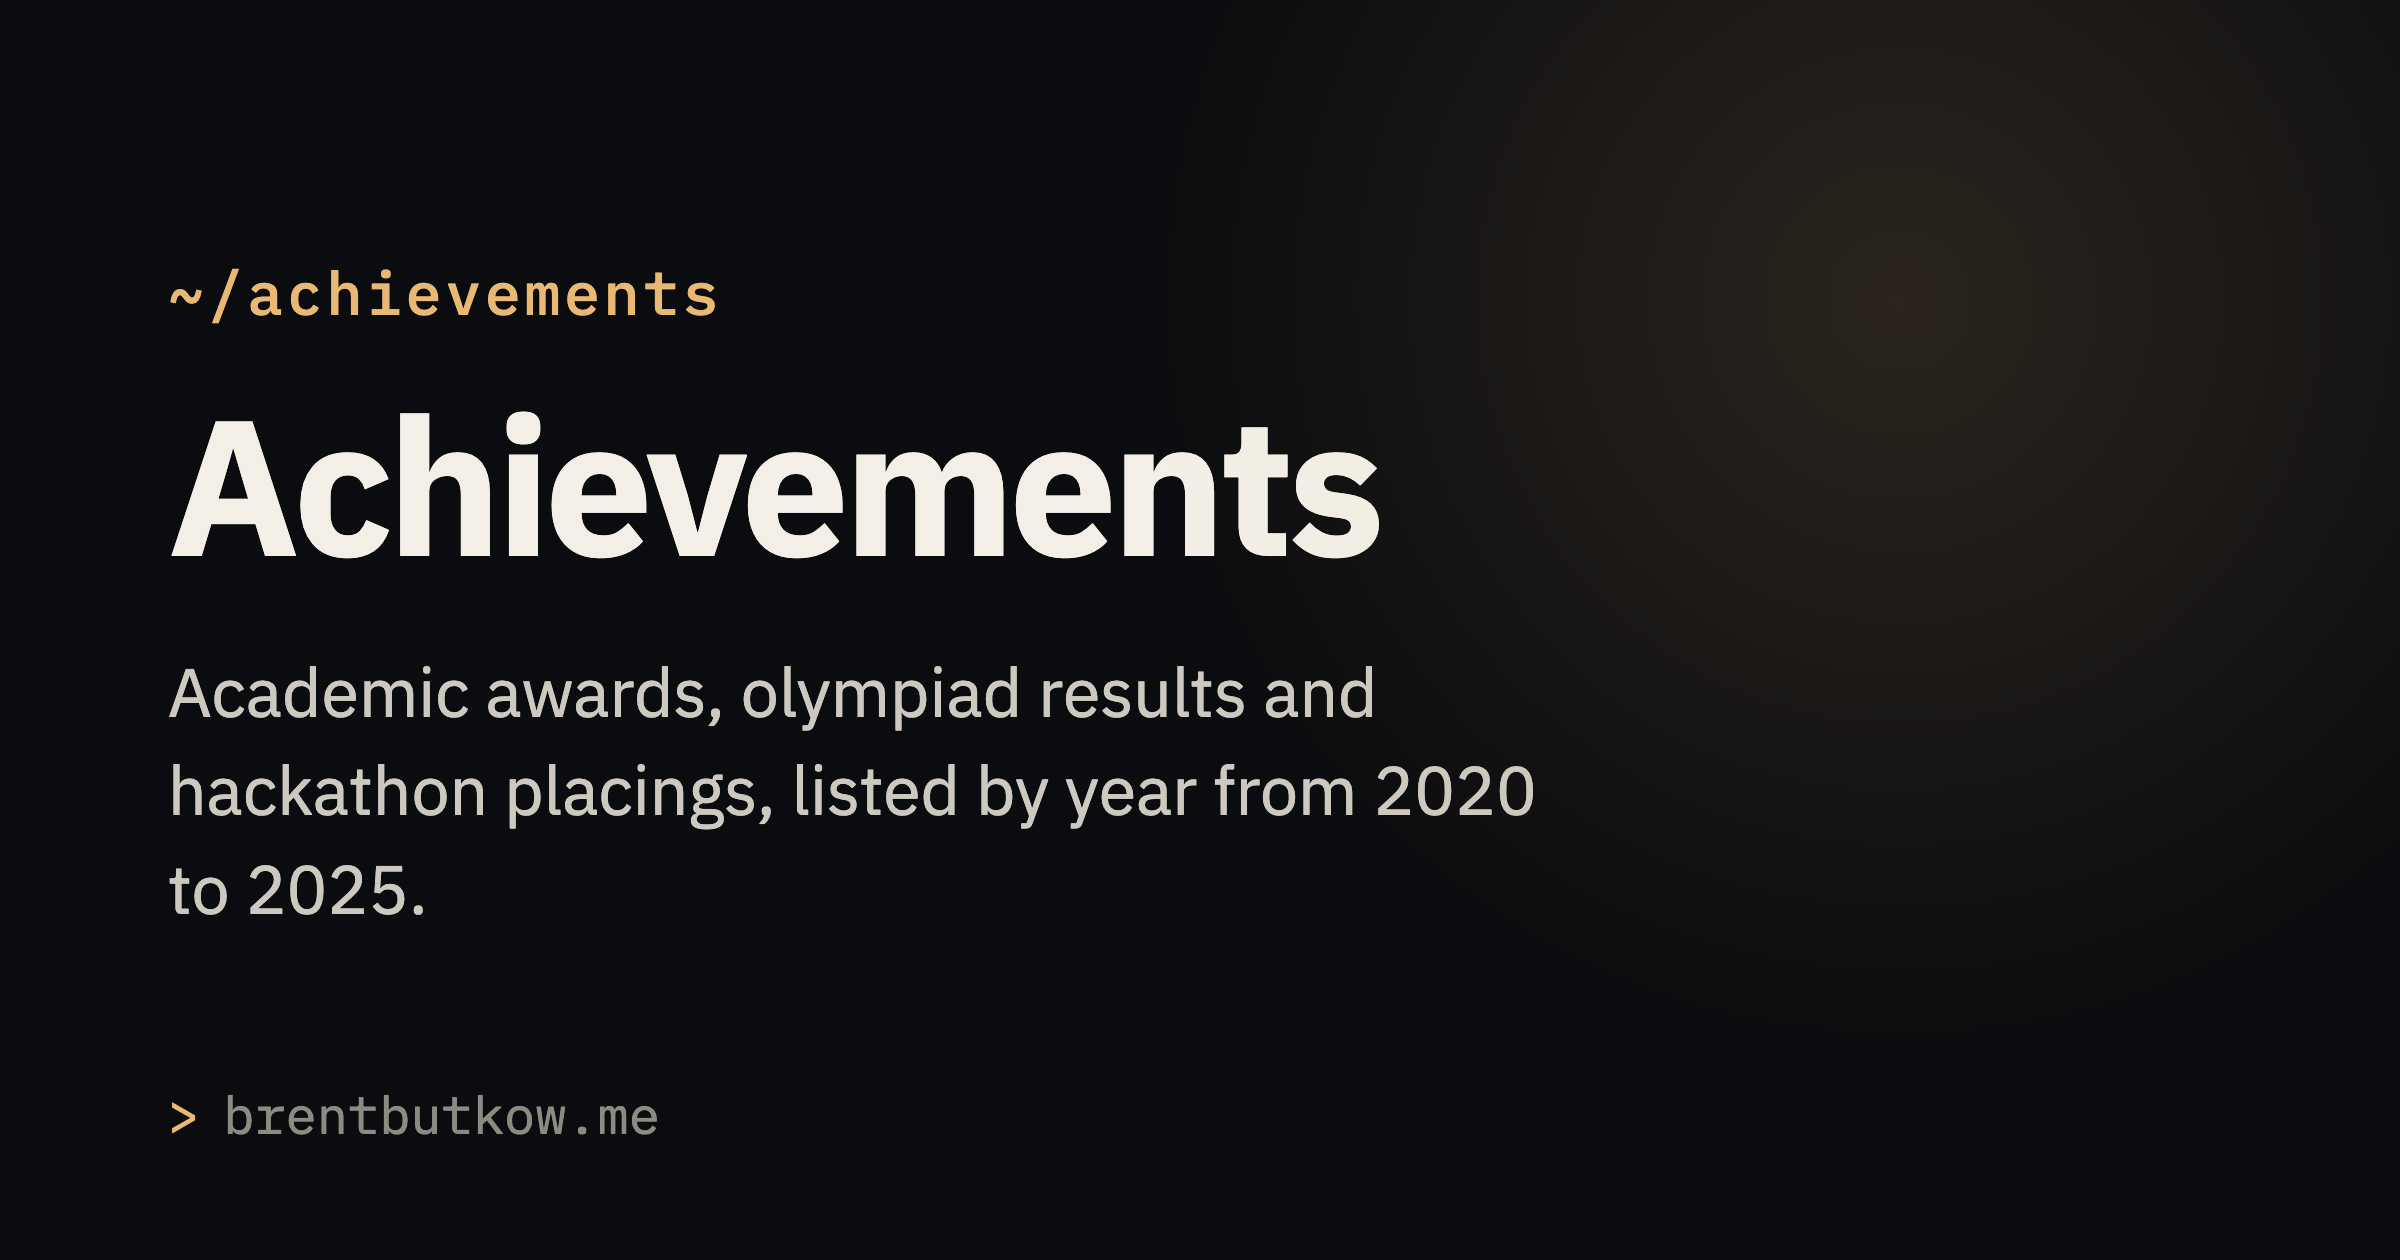
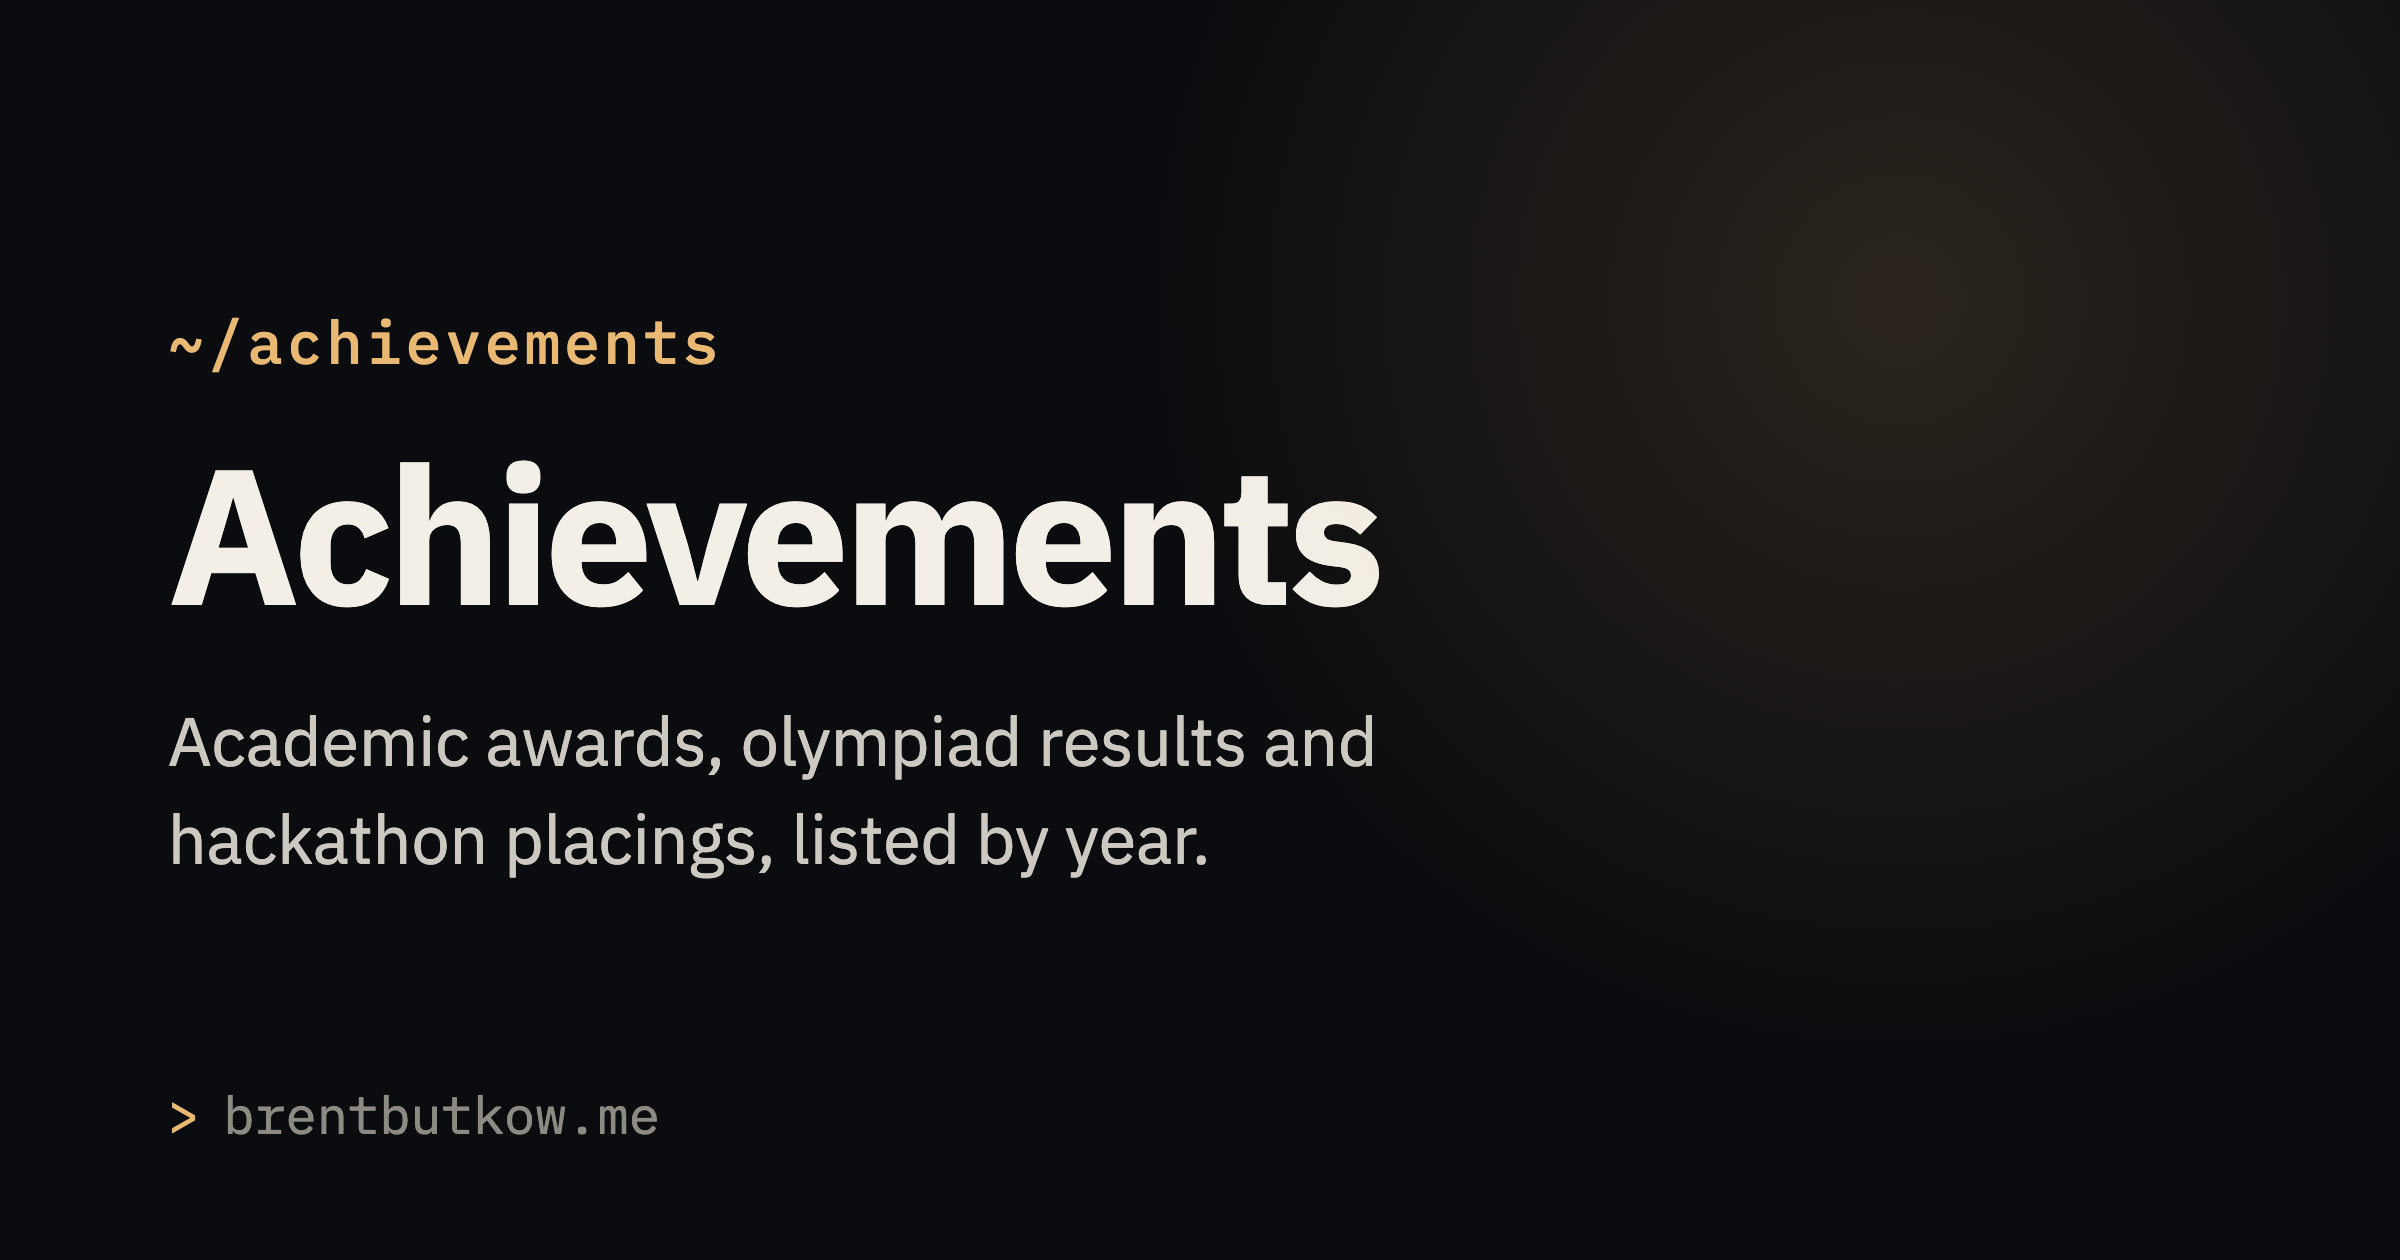
Refactor Open Graph subtitles for improved readability and structure; update tags for games section.

Changed region(s): [[0.0625, 0.2167, 0.5938, 0.4952], [0.0625, 0.5262, 0.6562, 0.7429]]

diff --git a/scripts/og/og-template.html b/scripts/og/og-template.html
@@ -428,8 +428,13 @@
         'recall-radar': {
           path: '~/projects/recall-radar',
           title: 'Recall Radar',
-          subtitle:
-            'Food-recall tracker across the US, Canada, UK, EU and South Africa. Updated daily, with severity ratings and free email alerts.',
+          subtitle: [
+            'Food-recall tracker across the US, Canada,',
+            'UK, EU and South Africa. Updated daily,',
+            'with severity ratings and free email alerts.',
+          ],
+          // The chosen breaks run past the shared 21em column.
+          subtitleWidth: '24em',
           tags: ['FDA', 'USDA', 'CFIA', 'FSA', 'RASFF', 'NCC'],
         },
         'pixel-world-simulator': {
@@ -446,7 +451,7 @@
           path: '~/fun-stuff/games/null-space',
           title: 'Null Space',
           subtitle:
-            'A browser space-defense game where you bend space itself — sling meteors, open black holes, protect your ship.',
+            'A browser space-defense game where you bend space itself: sling meteors, open black holes, protect your ship.',
           tags: ['Playable in your browser'],
           stars: true,
         },
@@ -467,8 +472,7 @@
         achievements: {
           path: '~/achievements',
           title: 'Achievements',
-          subtitle:
-            'Academic awards, olympiad results and hackathon placings, listed by year from 2020 to 2025.',
+          subtitle: 'Academic awards, olympiad results and hackathon placings, listed by year.',
           tags: [],
         },
         projects: {
@@ -482,7 +486,7 @@
           path: '~/fun-stuff',
           title: 'Fun Stuff',
           subtitle:
-            'Four browser games, an ASCII art studio, an image encoder, an exhibit of hostile interfaces, and a joke sorting algorithm.',
+            'Includes four browser games, an image encoder, an ASCII art studio, and a joke sorting algorithm.',
           tags: [],
         },
         games: {
@@ -490,7 +494,7 @@
           title: 'Games',
           subtitle:
             'Games that run in the browser with nothing to install, playable against a friend or the computer.',
-          tags: ['Four to choose from'],
+          tags: ['Null Space', 'Pixel World Simulator', '4×4×4 Tic-Tac-Toe', 'Othello'],
         },
         'course-projects': {
           path: '~/fun-stuff/course-projects',
@@ -576,7 +580,16 @@
       if (variant.subtitleWidth) {
         document.getElementById('subtitle').style.maxWidth = variant.subtitleWidth
       }
-      document.getElementById('subtitle').textContent = variant.subtitle
+      const subtitleEl = document.getElementById('subtitle')
+      // An array subtitle picks its own wrap points; a string leaves them to the measurer.
+      if (Array.isArray(variant.subtitle)) {
+        variant.subtitle.forEach((line, i) => {
+          if (i > 0) subtitleEl.appendChild(document.createElement('br'))
+          subtitleEl.appendChild(document.createTextNode(line))
+        })
+      } else {
+        subtitleEl.textContent = variant.subtitle
+      }
       for (const label of variant.tags) {
         const tag = document.createElement('span')
         tag.className = 'tag'
